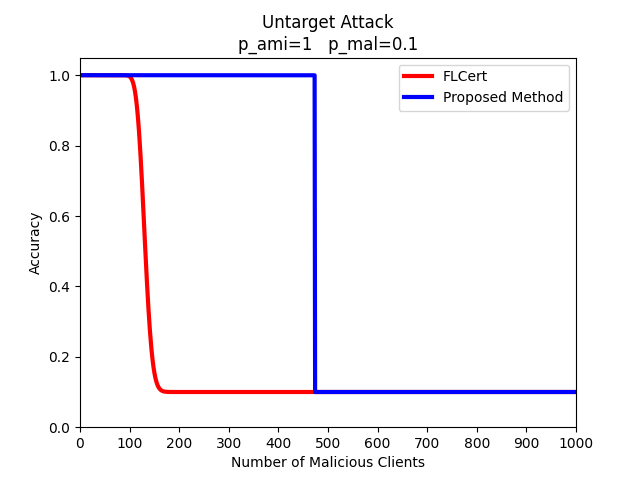
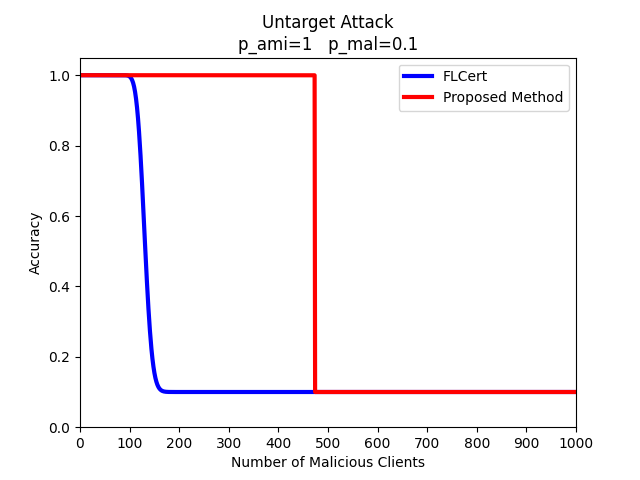
update fig

Changed region(s): [[0.125, 0.125, 0.9062, 0.8438], [0.625, 0.1562, 0.6875, 0.2188]]

diff --git a/ieice/fig/ieice_success_area_untarget.py b/ieice/fig/ieice_success_area_untarget.py
@@ -75,8 +75,8 @@ for i in range(N+1):
 
 
 line_w=3
-g1=plt.plot(idx,flcert,color="red", linewidth=line_w)
-g2=plt.plot(idx,pro_1,color="blue", linewidth=line_w)
+g1=plt.plot(idx,flcert,color="blue", linewidth=line_w)
+g2=plt.plot(idx,pro_1,color="red", linewidth=line_w)
 # ax.fill_between(A, Acc, facecolor='red', alpha=0.5)
 
 # plt.title("Target Attack\np_ami="+str(p_ami)+"   p_mal="+str(p_mal))

diff --git a/ieice/fig/ieice_success_area_target.py b/ieice/fig/ieice_success_area_target.py
@@ -70,8 +70,8 @@ for i in range(N+1):
 
 
 line_w=3
-g1=plt.plot(idx,flcert,color="red", linewidth=line_w)
-g2=plt.plot(idx,pro_1,color="blue", linewidth=line_w)
+g1=plt.plot(idx,flcert,color="blue", linewidth=line_w)
+g2=plt.plot(idx,pro_1,color="red", linewidth=line_w)
 # ax.fill_between(A, Acc, facecolor='red', alpha=0.5)
 
 plt.title("Target Attack\np_ami="+str(1)+"   p_mal="+str(p_mal))
